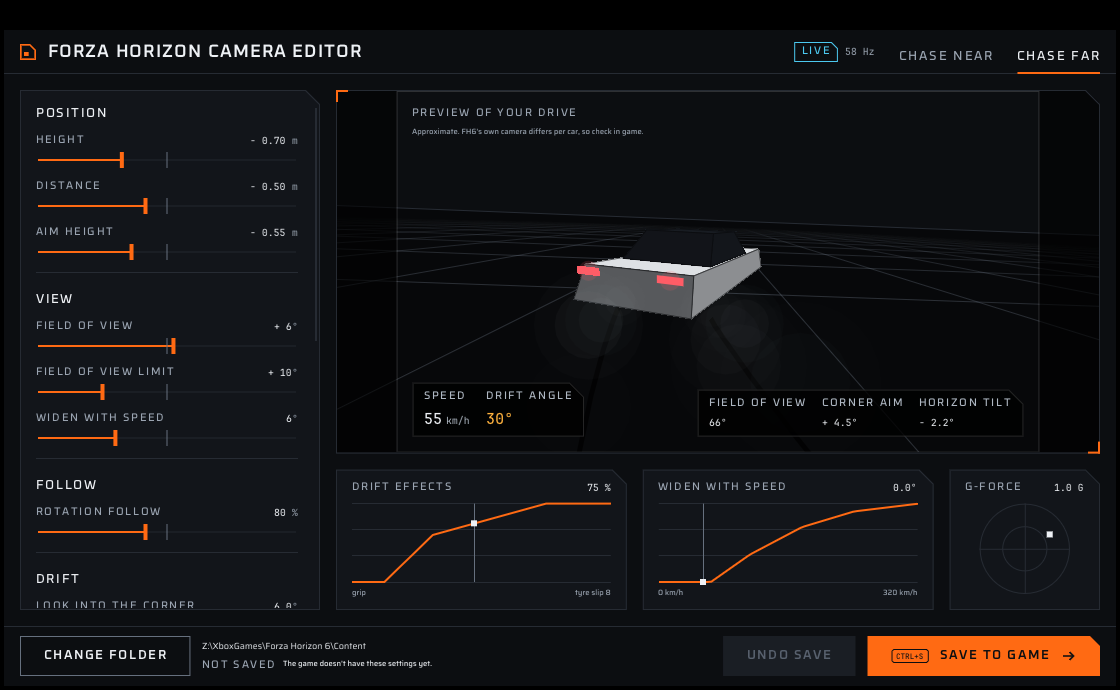
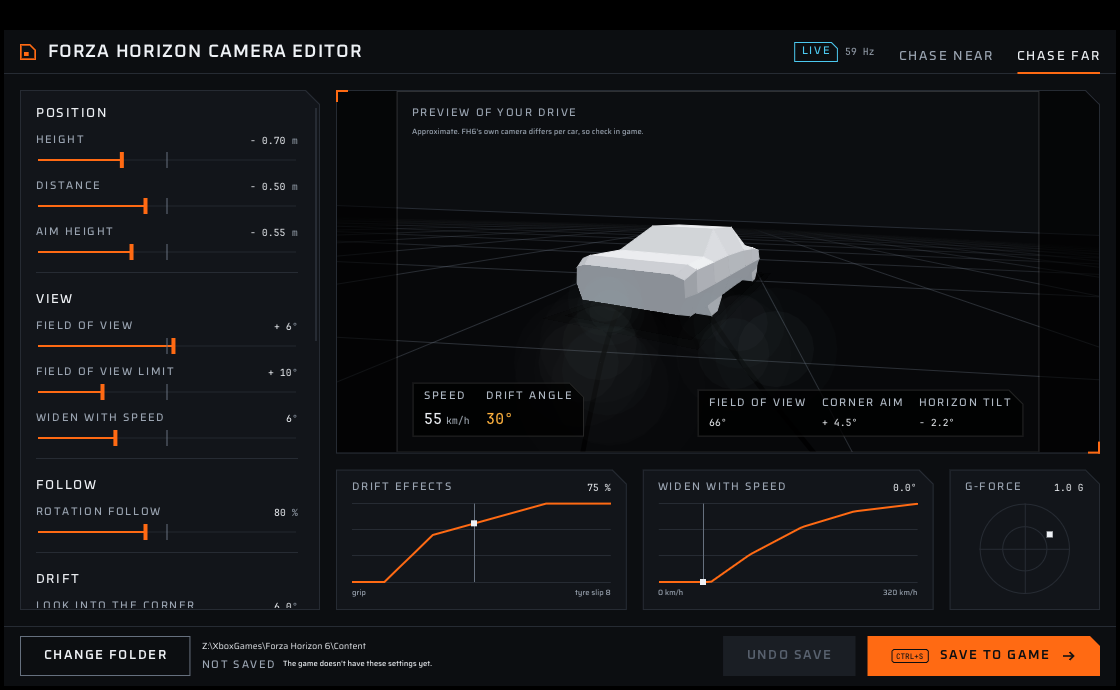
Better preview car: a white low-poly coupe
The body is lofted through eight cross-sections (bumpers, hood, raked
windshield, roof, fastback rear window, trunk), with octagonal wheels and a
soft contact shadow. One white material, flat shaded; seams between faces
covered, no outlines or tail lights.

diff --git a/editor/src/preview.cpp b/editor/src/preview.cpp
@@ -31,7 +31,7 @@ ImU32 mix(unsigned a, unsigned b, float t, int alpha = 255) {
     return IM_COL32(ch(16), ch(8), ch(0), alpha);
 }
 
-struct Face { V3 c[4]; V3 n; unsigned color; float shade; double depth; };
+struct Face { V3 c[8]; int count; V3 n; float shade; double depth; };
 } // namespace
 
 void drawPreview(ImDrawList* dl, ImVec2 a, ImVec2 b, ImVec2 fa, ImVec2 fb, const fh6::CamPose& cam, const fh6::Inputs& in, const fh6::Scene& scene) {
@@ -117,79 +117,121 @@ void drawPreview(ImDrawList* dl, ImVec2 a, ImVec2 b, ImVec2 fa, ImVec2 fb, const
     };
     drawSmoke(true);
 
-    // car: body and cabin as shaded boxes, painter's order
+    // car: a white low-poly coupe lofted through cross-sections along its
+    // length, flat shaded; wheels first (tucked under the body), then the body
     V3 fwd(std::sin(in.heading), 0, std::cos(in.heading));
     V3 right(fwd.z, 0, -fwd.x);
     V3 up(0, 1, 0);
     double rl = in.bodyRoll; // lean the body a little with cornering
     V3 upR = (up * std::cos(rl) - right * std::sin(rl)).norm();
     V3 rightR = upR.cross(fwd).norm(); // x right, y up, z forward
-    std::vector<Face> faces;
-    auto box = [&](double cx, double cz, double y0, double y1, double hw, double hl, double topShrinkW, double topShrinkL, unsigned col) {
-        V3 o = in.pos + V3(0, gy - in.pos.y, 0);
-        auto P = [&](double sx, double sz, double y) {
-            double w = hw - (y == y1 ? topShrinkW : 0), l = hl - (y == y1 ? topShrinkL : 0);
-            return o + rightR * (cx + sx * w) + fwd * (cz + sz * l) + upR * y;
-        };
-        V3 c[8] = { P(-1, -1, y0), P(1, -1, y0), P(1, 1, y0), P(-1, 1, y0), P(-1, -1, y1), P(1, -1, y1), P(1, 1, y1), P(-1, 1, y1) };
-        int idx[6][4] = { { 4, 5, 6, 7 }, { 0, 1, 5, 4 }, { 1, 2, 6, 5 }, { 2, 3, 7, 6 }, { 3, 0, 4, 7 }, { 0, 3, 2, 1 } };
-        V3 bc = o + rightR * cx + fwd * cz + upR * ((y0 + y1) / 2);
-        for (auto& f : idx) {
-            Face fc;
-            for (int i = 0; i < 4; i++) fc.c[i] = c[f[i]];
-            fc.n = (fc.c[1] - fc.c[0]).cross(fc.c[2] - fc.c[1]).norm();
-            V3 ctr = (fc.c[0] + fc.c[1] + fc.c[2] + fc.c[3]) * 0.25;
-            if (fc.n.dot(ctr - bc) < 0) fc.n = fc.n * -1.0; // outward
-            fc.color = col;
-            V3 light = V3(-0.4, 1, -0.3).norm();
-            fc.shade = (float)std::clamp(0.35 + 0.65 * std::max(0.0, fc.n.dot(light)), 0.0, 1.0);
-            fc.depth = v.toCam(ctr).z;
-            if (fc.n.dot(v.pos - ctr) > 0) faces.push_back(fc); // facing the camera
+    V3 o = in.pos + V3(0, gy - in.pos.y, 0);
+    auto P = [&](double x, double y, double z) { return o + rightR * x + upR * y + fwd * z; };
+    const V3 light = V3(-0.35, 1.0, -0.25).norm();
+
+    auto addFace = [&](std::vector<Face>& out, const V3* pts, int n, const V3& inside) {
+        Face f;
+        f.count = n;
+        V3 ctr, nrm;
+        for (int i = 0; i < n; i++) {
+            f.c[i] = pts[i];
+            ctr = ctr + pts[i] * (1.0 / n);
+            const V3 &p0 = pts[i], &p1 = pts[(i + 1) % n]; // Newell normal
+            nrm = nrm + V3((p0.y - p1.y) * (p0.z + p1.z), (p0.z - p1.z) * (p0.x + p1.x), (p0.x - p1.x) * (p0.y + p1.y));
         }
+        if (nrm.len() < 1e-9) return;
+        nrm = nrm.norm();
+        if (nrm.dot(ctr - inside) < 0) nrm = nrm * -1.0; // outward
+        if (nrm.dot(v.pos - ctr) <= 0) return;           // facing away
+        f.n = nrm;
+        f.shade = (float)std::clamp(0.30 + 0.70 * std::max(0.0, nrm.dot(light)), 0.0, 1.0);
+        f.depth = v.toCam(ctr).z;
+        out.push_back(f);
     };
-    box(0, 0, 0.22, 0.72, 0.93, 2.25, 0.06, 0.18, INK);            // body
-    box(0, -0.2, 0.72, 1.20, 0.80, 1.10, 0.15, 0.48, BG300);      // cabin and glass, raked
-    // wheels first (tucked under the body, only their lower part shows), then the body
-    std::vector<Face> body;
-    body.swap(faces);
+
+    // cross-sections, rear to front: z, then heights (bottom, widest, belt, top)
+    // and half widths at those heights. Belt to top is the glass over the cabin.
+    struct Sec { double z, yb, ys, ybelt, ytop, wb, ws, wbelt, wtop; };
+    static const Sec SECS[] = {
+        { -2.25, 0.25, 0.48, 0.70, 0.74, 0.76, 0.85, 0.83, 0.70 }, // rear bumper
+        { -2.07, 0.19, 0.50, 0.80, 0.85, 0.84, 0.92, 0.90, 0.78 }, // trunk lip
+        { -1.45, 0.18, 0.50, 0.82, 0.88, 0.85, 0.93, 0.90, 0.74 }, // base of the rear window
+        { -0.70, 0.18, 0.50, 0.84, 1.27, 0.85, 0.93, 0.88, 0.60 }, // roof, rear
+        { 0.35, 0.18, 0.50, 0.84, 1.29, 0.85, 0.93, 0.88, 0.60 },  // roof, front
+        { 1.05, 0.18, 0.50, 0.81, 0.87, 0.85, 0.93, 0.89, 0.74 },  // base of the windshield
+        { 2.02, 0.20, 0.47, 0.69, 0.74, 0.82, 0.90, 0.86, 0.72 },  // nose
+        { 2.25, 0.27, 0.45, 0.59, 0.62, 0.72, 0.81, 0.79, 0.65 },  // front bumper
+    };
+    const int NS = (int)(sizeof SECS / sizeof SECS[0]);
+    auto ring = [&](const Sec& c, V3* r) {
+        r[0] = P(c.wb, c.yb, c.z);       r[1] = P(c.ws, c.ys, c.z);
+        r[2] = P(c.wbelt, c.ybelt, c.z); r[3] = P(c.wtop, c.ytop, c.z);
+        r[4] = P(-c.wtop, c.ytop, c.z);  r[5] = P(-c.wbelt, c.ybelt, c.z);
+        r[6] = P(-c.ws, c.ys, c.z);      r[7] = P(-c.wb, c.yb, c.z);
+    };
+    std::vector<Face> wheels, body;
+    V3 rings[16][8];
+    for (int i = 0; i < NS; i++) ring(SECS[i], rings[i]);
+    for (int i = 0; i + 1 < NS; i++) {
+        V3 inside = P(0, 0.55, (SECS[i].z + SECS[i + 1].z) / 2);
+        for (int k = 0; k < 8; k++) {
+            V3 q[4] = { rings[i][k], rings[i][(k + 1) % 8], rings[i + 1][(k + 1) % 8], rings[i + 1][k] };
+            addFace(body, q, 4, inside);
+        }
+    }
+    V3 center = P(0, 0.55, 0);
+    addFace(body, rings[0], 8, center);
+    addFace(body, rings[NS - 1], 8, center);
+    // wheels: octagonal, the outer face just inside the body side
     for (int sx = -1; sx <= 1; sx += 2)
-        for (int sz = -1; sz <= 1; sz += 2) box(sx * 0.80, sz * 1.38, 0.0, 0.62, 0.12, 0.32, 0, 0, BG000);
-    auto byDepth = [](const Face& x, const Face& y) { return x.depth > y.depth; };
-    std::sort(faces.begin(), faces.end(), byDepth);
-    std::sort(body.begin(), body.end(), byDepth);
-    faces.insert(faces.end(), body.begin(), body.end());
-    for (auto& fc : faces) {
-        ImVec2 q[4];
-        bool ok = true;
-        for (int i = 0; i < 4; i++) {
-            V3 c = v.toCam(fc.c[i]);
-            if (c.z < v.nearZ) { ok = false; break; }
-            q[i] = v.project(c);
-        }
-        if (!ok) continue;
-        unsigned col = fc.color;
-        ImU32 fill = mix(BG000, col, fc.shade);
-        dl->AddConvexPolyFilled(q, 4, fill);
-        dl->AddPolyline(q, 4, rgb(BG000, 160), 1.f * S, ImDrawFlags_Closed);
-    }
-    // tail lights and a sakura stripe on the rear face
-    {
-        V3 o = in.pos + V3(0, gy - in.pos.y, 0);
-        auto R = [&](double x, double y) { return o + rightR * x + fwd * -2.255 + upR * y; };
-        if (fwd.dot(v.pos - in.pos) < 0) { // rear visible
-            for (int s = -1; s <= 1; s += 2) {
-                V3 c[4] = { R(s * 0.82, 0.62), R(s * 0.45, 0.62), R(s * 0.45, 0.72), R(s * 0.82, 0.72) };
-                ImVec2 q[4];
-                bool ok = true;
-                for (int i = 0; i < 4; i++) { V3 cc = v.toCam(c[i]); if (cc.z < v.nearZ) ok = false; else q[i] = v.project(cc); }
-                if (ok) {
-                    dl->AddConvexPolyFilled(q, 4, rgb(DANGER));
-                    ImVec2 m((q[0].x + q[2].x) / 2, (q[0].y + q[2].y) / 2);
-                    dl->AddCircleFilled(m, 10 * S, rgb(DANGER, 40), 20);
-                }
+        for (int sz = -1; sz <= 1; sz += 2) {
+            const double r = 0.33, cx = sx * 0.80, cz = sz * 1.38, hw = 0.12;
+            V3 in8[8], out8[8];
+            for (int k = 0; k < 8; k++) {
+                double t = (k + 0.5) * 3.14159265 / 4;
+                double yy = r + r * std::cos(t), zz = cz + r * std::sin(t);
+                in8[k] = P(cx - hw, yy, zz);
+                out8[k] = P(cx + hw, yy, zz);
             }
+            V3 wc = P(cx, r, cz);
+            for (int k = 0; k < 8; k++) {
+                V3 q[4] = { in8[k], in8[(k + 1) % 8], out8[(k + 1) % 8], out8[k] };
+                addFace(wheels, q, 4, wc);
+            }
+            addFace(wheels, in8, 8, wc);
+            addFace(wheels, out8, 8, wc);
+        }
+
+    // soft contact shadow on the ground
+    {
+        auto ground = [&](double x, double z) { V3 g = P(x, 0, z); g.y = gy; return g; };
+        for (int pass = 0; pass < 2; pass++) {
+            double ex = pass ? 1.15 : 0.98, ez = pass ? 2.55 : 2.35;
+            V3 c4[4] = { ground(-ex, -ez), ground(ex, -ez), ground(ex, ez), ground(-ex, ez) };
+            ImVec2 q[4];
+            bool ok = true;
+            for (int i = 0; i < 4; i++) { V3 c = v.toCam(c4[i]); if (c.z < v.nearZ) ok = false; else q[i] = v.project(c); }
+            if (ok) dl->AddConvexPolyFilled(q, 4, IM_COL32(0, 0, 0, pass ? 70 : 120));
         }
     }
+
+    auto byDepth = [](const Face& x, const Face& y) { return x.depth > y.depth; };
+    std::sort(wheels.begin(), wheels.end(), byDepth);
+    std::sort(body.begin(), body.end(), byDepth);
+    for (auto* list : { &wheels, &body })
+        for (auto& fc : *list) {
+            ImVec2 q[8];
+            bool ok = true;
+            for (int i = 0; i < fc.count; i++) {
+                V3 c = v.toCam(fc.c[i]);
+                if (c.z < v.nearZ) { ok = false; break; }
+                q[i] = v.project(c);
+            }
+            if (!ok) continue;
+            ImU32 fill = mix(0x5E646E, 0xF6F7F9, fc.shade); // white paint, shaded
+            dl->AddConvexPolyFilled(q, fc.count, fill);
+            dl->AddPolyline(q, fc.count, fill, 1.f * S, ImDrawFlags_Closed); // hides seams between faces
+        }
     drawSmoke(false);
     // outside the game's 16:9 frame: dimmed, with a thin frame edge
     ImU32 dim = glass(60);
